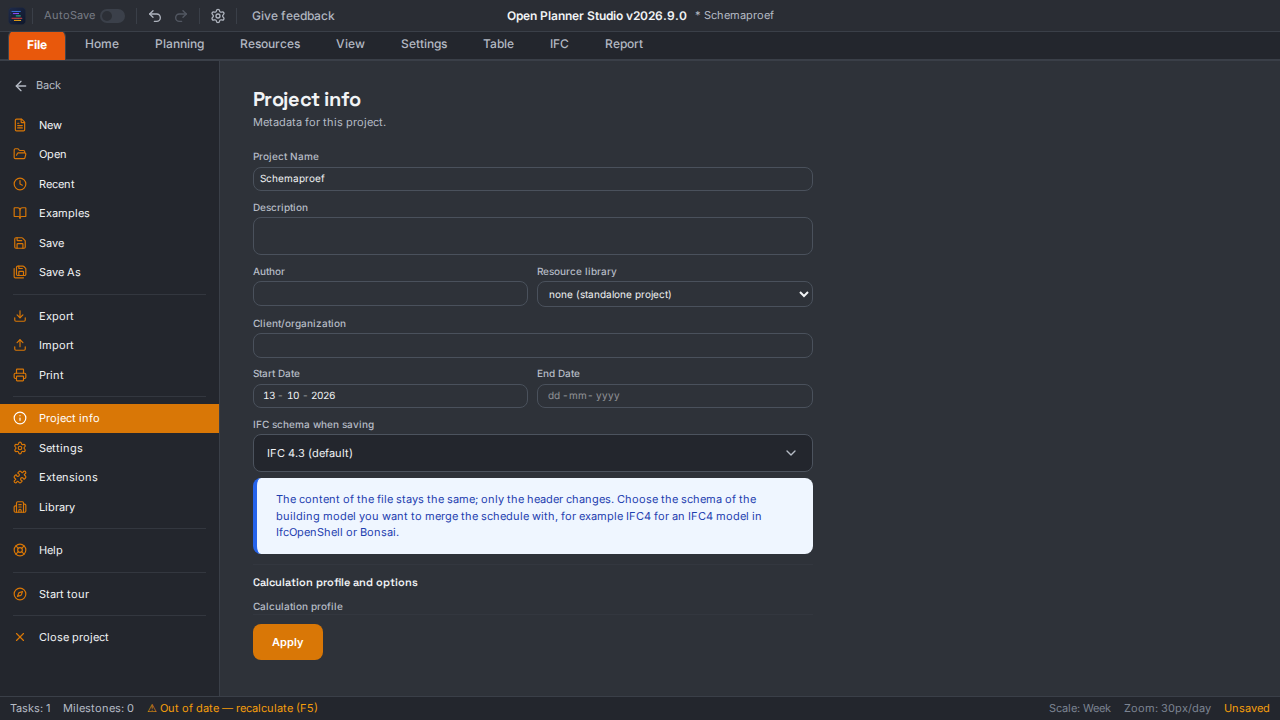
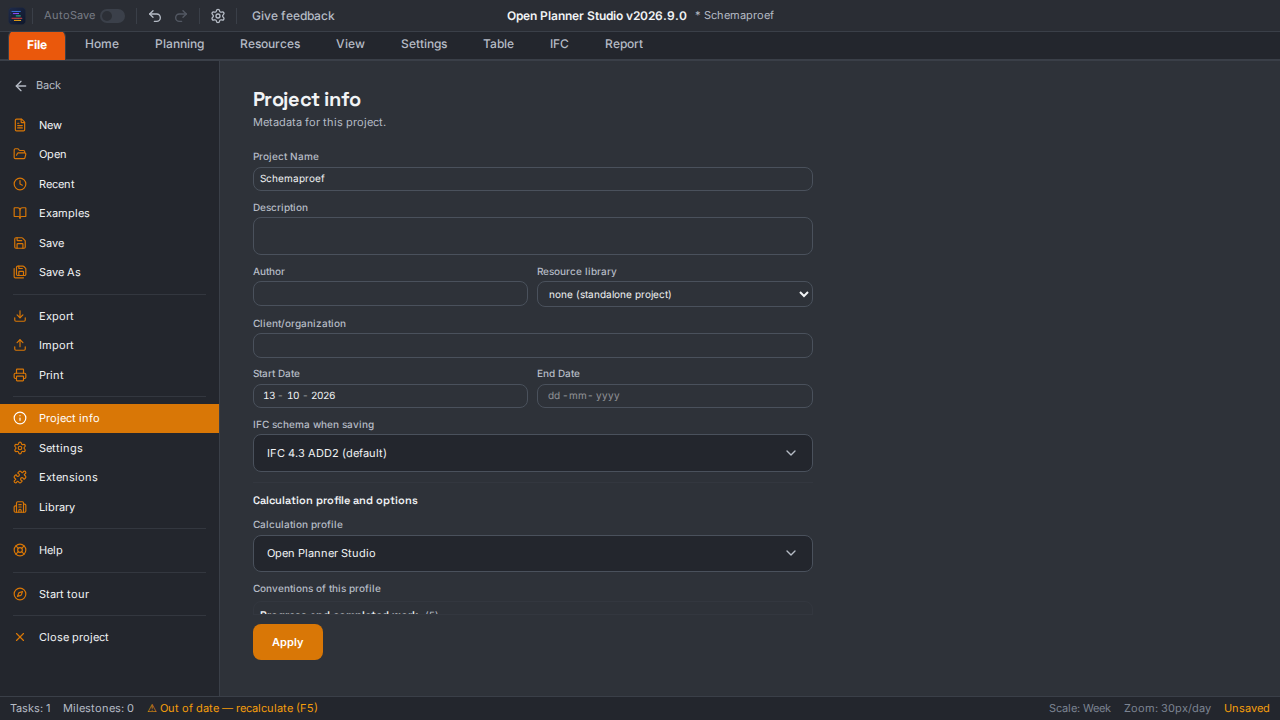
Schemavraag: browsertest, focus op houden, gidsen en schermbeelden (#292)
- tests/browser/ifc-schema-question.spec.ts (nieuw): echte bestandskiezer,
  Ctrl+S met download, klikken en Esc. (a) nieuw project zonder vraag, kop
  IFC4X3_ADD2; (b) IFC4-bestand, "IFC4 houden", kop IFC4, heropenen en weer
  opslaan zonder vraag; (c) zelfde met ADD2; (d) Esc slaat niets op; (e) de
  herstelsnapshot in IndexedDB vraagt niets en bewaart de open vraag.
  Mutatie (vraag uit Opslaan gehaald) maakt de test rood.
- ifc-schema.spec.ts: standaard en labels volgens het besluit (ADD2 bovenaan).
- De vraag zet bij openen de focus op de hoofdknop (houden), zodat Enter
  nooit stil het bestandstype verandert; de test controleert dat.
- Schermbeelden licht en donker via ui.uiTheme (ook het canvas), en de
  Projectinfo-beelden opnieuw met de nieuwe labels.
- Gids howto-ifc-schema-kiezen en ref-projectinfo (nl, en): standaard ADD2,
  de vraag bij een ouder of ander schema, AutoSave en herstel.

Changed region(s): [[0.1875, 0.6111, 0.6562, 0.8556]]

diff --git a/tests/browser/ifc-schema-question.spec.ts b/tests/browser/ifc-schema-question.spec.ts
@@ -1,0 +1,164 @@
+// Issue #292, besluit eigenaar 2026-10-13: de app slaat standaard op als IFC4X3_ADD2, maar verandert een
+// bestandstype nooit stil. Het eerste expliciete opslaan van een geopend IFC-bestand met een ander
+// schema vraagt eerst: naar IFC 4.3 ADD2, of het schema houden.
+//
+// Echte gebruikersflow: bestanden via de ribbonknop Openen en de bestandskiezer, opslaan met Ctrl+S (in
+// de browser zonder bestandstoegang een download), de vraag met echte klikken en Esc, een wijziging via
+// Projectinfo met echte invoer. `window.__OPS__` zet alleen de beginstand (één taak in een nieuw project)
+// en LEEST de uitkomst; de kop van elk bestand komt uit de echte download.
+//
+// OPS_IFC_SCHEMA_SHOTS=<map> bewaart schermbeelden van de vraag, licht en donker.
+import { readFileSync } from 'node:fs';
+import { readFile } from 'node:fs/promises';
+import { join } from 'node:path';
+import type { Page } from '@playwright/test';
+import { expect, test } from './fixtures/ops';
+
+const SHOTS = process.env.OPS_IFC_SCHEMA_SHOTS;
+// Een bestand van een oudere app-versie (kop IFC4X3, geen schemamarkering). Met de kop op IFC4 gezet is
+// het een IFC4-bestand van een ander pakket: ook geen markering, dus de app moet vragen.
+const OLD_OPS_FILE = readFileSync(join(process.cwd(), 'tests/planning/fixtures/ifc-arity-oude-writer.ifc'), 'utf8');
+const IFC4_FILE = Buffer.from(OLD_OPS_FILE.replace("FILE_SCHEMA(('IFC4X3'));", "FILE_SCHEMA(('IFC4'));"));
+
+const question = (page: Page) => page.locator('[data-ops-ifc-schema-question]');
+const state = (page: Page) => page.evaluate(() => {
+  const s = window.__OPS__!.store.getState();
+  return {
+    filePath: s.filePath,
+    ifcSchema: s.project.ifcSchema ?? null,
+    unconfirmed: s.project.ifcSchemaUnconfirmed ?? null,
+    pending: s.ui.pendingIfcSchemaQuestion,
+    isDirty: s.isDirty,
+    name: s.project.name,
+  };
+});
+
+/** Open via de ribbonknop en de bestandskiezer; wacht tot dit bestand het actieve document is. */
+async function openFile(page: Page, name: string, buffer: Buffer): Promise<void> {
+  const openButton = page.locator('button.ribbon-btn').filter({ hasText: /^(Open|Openen)$/ });
+  const chooser = page.waitForEvent('filechooser');
+  await openButton.click();
+  await (await chooser).setFiles({ name, mimeType: 'application/octet-stream', buffer });
+  await expect.poll(() => state(page).then(s => s.filePath)).toBe(name);
+}
+
+/** Ctrl+S die een download moet geven; geeft de inhoud terug. Een eventuele vraag beantwoordt `answer`. */
+async function saveWithDownload(page: Page, answer?: (page: Page) => Promise<void>): Promise<string> {
+  const download = page.waitForEvent('download');
+  await page.keyboard.press('Control+s');
+  if (answer) await answer(page);
+  const path = await (await download).path();
+  return readFile(path!, 'utf8');
+}
+
+const fileSchema = (ifc: string) => /FILE_SCHEMA\(\('([A-Z0-9_]+)'\)\);/.exec(ifc)?.[1] ?? '(geen kop)';
+const hasProp = (ifc: string, name: string) => ifc.includes(`IFCPROPERTYSINGLEVALUE('${name}'`);
+
+test('IFC-schema: nieuw project zonder vraag; IFC4 houden, ADD2 kiezen, Esc slaat niets op; heropenen vraagt niet opnieuw',
+  async ({ page, ops: _ops }) => {
+    test.setTimeout(120_000);
+    // Elke download telt: na Esc mag er niets komen.
+    let downloads = 0;
+    page.on('download', () => { downloads++; });
+
+    // (a) Nieuw project: Ctrl+S zonder vraag, kop IFC4X3_ADD2.
+    await page.evaluate(() => {
+      const s = window.__OPS__!.store.getState();
+      s.setProject({ name: 'Nieuw schemaproject' });
+      s.addTask({ name: 'Ruwbouw' });
+    });
+    const a = await saveWithDownload(page);
+    await expect(question(page)).toHaveCount(0);
+    expect(fileSchema(a)).toBe('IFC4X3_ADD2');
+    expect(hasProp(a, 'IfcSchemaConfirmed')).toBe(true);
+
+    // (b) Een IFC4-bestand: Ctrl+S ⇒ de vraag ⇒ "IFC4 houden" ⇒ kop IFC4.
+    await openFile(page, 'model-ifc4.ifc', IFC4_FILE);
+    expect((await state(page)).unconfirmed).toBe('IFC4');
+    const b = await saveWithDownload(page, async (p) => {
+      await expect(question(p)).toBeVisible();
+      await expect(question(p)).toHaveAttribute('data-file-schema', 'IFC4');
+      // De focus staat op "IFC4 houden": Enter verandert het bestandstype nooit.
+      await expect.poll(() => p.evaluate(() => document.activeElement?.getAttribute('data-ops-ifc-schema-choice') ?? null)).toBe('IFC4');
+      if (SHOTS) {
+        const before = await p.evaluate(() => window.__OPS__!.store.getState().ui.uiTheme);
+        for (const theme of ['light', 'dark'] as const) {
+          await p.evaluate((t) => window.__OPS__!.store.getState().setUI({ uiTheme: t }), theme);
+          // Kleurovergangen van knoppen eerst laten uitlopen.
+          await p.waitForTimeout(400);
+          await p.screenshot({ path: `${SHOTS}/schemavraag-ifc4-${theme === 'light' ? 'licht' : 'donker'}.png` });
+        }
+        await p.evaluate((t) => window.__OPS__!.store.getState().setUI({ uiTheme: t }), before);
+      }
+      await question(p).getByRole('button', { name: /^(Keep IFC4|IFC4 houden)$/ }).click();
+    });
+    await expect(question(page)).toHaveCount(0);
+    expect(fileSchema(b)).toBe('IFC4');
+    expect(hasProp(b, 'IfcSchemaConfirmed')).toBe(true);
+    expect(await state(page)).toMatchObject({ ifcSchema: 'IFC4', unconfirmed: null, isDirty: false });
+
+    // Heropenen van dat bewaarde bestand en weer opslaan: geen vraag, kop IFC4.
+    await openFile(page, 'bewaard-ifc4.ifc', Buffer.from(b));
+    expect((await state(page)).unconfirmed).toBeNull();
+    const b2 = await saveWithDownload(page);
+    await expect(question(page)).toHaveCount(0);
+    expect(fileSchema(b2)).toBe('IFC4');
+
+    // (c) Hetzelfde IFC4-bestand, nu met de keuze ADD2 ⇒ kop IFC4X3_ADD2.
+    await openFile(page, 'model-ifc4-c.ifc', IFC4_FILE);
+    const c = await saveWithDownload(page, async (p) => {
+      await expect(question(p)).toBeVisible();
+      await question(p).getByRole('button', { name: /^(Save as IFC 4\.3 ADD2|Opslaan als IFC 4\.3 ADD2)$/ }).click();
+    });
+    expect(fileSchema(c)).toBe('IFC4X3_ADD2');
+    expect(await state(page)).toMatchObject({ ifcSchema: 'IFC4X3_ADD2', unconfirmed: null });
+
+    // (d) Esc ⇒ niets opgeslagen; de vraag staat bij het volgende opslaan weer klaar.
+    await openFile(page, 'model-ifc4-d.ifc', IFC4_FILE);
+    const before = downloads;
+    await page.keyboard.press('Control+s');
+    await expect(question(page)).toBeVisible();
+    await page.keyboard.press('Escape');
+    await expect(question(page)).toHaveCount(0);
+    // Een download na Esc zou binnen een paar honderd ms komen; wacht ruim en tel.
+    await page.waitForTimeout(1_500);
+    expect(downloads).toBe(before);
+    expect(await state(page)).toMatchObject({ unconfirmed: 'IFC4', pending: null });
+
+    // (e) Automatisch opslaan (crashherstel) vraagt niets en bewaart de open vraag. Een echte wijziging
+    // via Projectinfo (naam), dan wachten op de herstelsnapshot in IndexedDB.
+    await page.getByRole('button', { name: /^(File|Bestand)$/ }).first().click();
+    await page.locator('.backstage-sidebar').getByRole('button', { name: /^(Project info|Projectinfo)$/ }).click();
+    await page.locator('[data-ops-project-name]').fill('Herstelproef schemavraag');
+    await page.locator('[data-ops-project-info-actions]').getByRole('button', { name: /^(Apply|Toepassen)$/ }).click();
+    await expect.poll(() => state(page).then(s => [s.name, s.isDirty])).toEqual(['Herstelproef schemavraag', true]);
+    let snapshot: string | null = null;
+    await expect.poll(async () => {
+      snapshot = await readRecoverySnapshot(page, 'Herstelproef schemavraag');
+      return snapshot !== null;
+    }, { timeout: 40_000, intervals: [1_000] }).toBe(true);
+    await expect(question(page)).toHaveCount(0);
+    expect(await state(page)).toMatchObject({ unconfirmed: 'IFC4', pending: null });
+    expect(fileSchema(snapshot!)).toBe('IFC4');
+    expect(hasProp(snapshot!, 'IfcSchemaUnconfirmed')).toBe(true);
+    expect(downloads).toBe(before);
+  });
+
+/** De IFC-tekst van de herstelsnapshot met deze projectnaam uit de echte IndexedDB `ops-recovery`, of null. */
+function readRecoverySnapshot(page: Page, needle: string): Promise<string | null> {
+  return page.evaluate((name) => new Promise<string | null>((resolve) => {
+    const request = indexedDB.open('ops-recovery');
+    request.onerror = () => resolve(null);
+    request.onsuccess = () => {
+      const db = request.result;
+      if (![...db.objectStoreNames].includes('records')) { db.close(); resolve(null); return; }
+      const all = db.transaction('records', 'readonly').objectStore('records').getAll();
+      all.onsuccess = () => {
+        db.close();
+        const records = all.result as Array<{ kind: string; ifc?: string }>;
+        resolve(records.find(r => r.kind === 'doc' && typeof r.ifc === 'string' && r.ifc.includes(name))?.ifc ?? null);
+      };
+      all.onerror = () => { db.close(); resolve(null); };
+    };
+  }), needle);
+}

diff --git a/tests/browser/ifc-schema.spec.ts b/tests/browser/ifc-schema.spec.ts
@@ -55,16 +55,18 @@ test('IFC-schema: kiezen in Projectinfo, toepassen, opslaan schrijft het in de k
     expect(await schemaOf(page)).toBeNull();
 
     await toProjectInfo(page);
-    await expect(trigger(page)).toHaveText(/^(IFC 4\.3 \(default\)|IFC 4\.3 \(standaard\))$/);
+    // De standaard is IFC 4.3 ADD2 (besluit eigenaar 2026-10-13).
+    await expect(trigger(page)).toHaveText(/^(IFC 4\.3 ADD2 \(default\)|IFC 4\.3 ADD2 \(standaard\))$/);
     if (SHOTS) {
-      // Alleen voor de schermbeelden: het thema rechtstreeks op de DOM (de Backstage is pure DOM/CSS).
-      const before = await page.evaluate(() => document.documentElement.getAttribute('data-theme'));
+      // Alleen voor de schermbeelden: het thema via de store (`ui.uiTheme`), zoals de instelling het zet.
+      const before = await page.evaluate(() => window.__OPS__!.store.getState().ui.uiTheme);
       await page.locator('[data-ops-project-ifc-schema]').scrollIntoViewIfNeeded();
       for (const theme of ['light', 'dark'] as const) {
-        await page.evaluate((t) => document.documentElement.setAttribute('data-theme', t), theme);
+        await page.evaluate((t) => window.__OPS__!.store.getState().setUI({ uiTheme: t }), theme);
+        await page.waitForTimeout(400);
         await page.screenshot({ path: `${SHOTS}/projectinfo-ifc-schema-${theme === 'light' ? 'licht' : 'donker'}.png` });
       }
-      await page.evaluate((t) => { if (t) document.documentElement.setAttribute('data-theme', t); }, before);
+      await page.evaluate((t) => window.__OPS__!.store.getState().setUI({ uiTheme: t }), before);
     }
 
     // Kiezen is een concept: de store verandert pas bij Toepassen.
@@ -84,18 +86,20 @@ test('IFC-schema: kiezen in Projectinfo, toepassen, opslaan schrijft het in de k
     await page.keyboard.press('Control+y');
     await expect.poll(() => schemaOf(page)).toBe('IFC4');
 
-    // Het formulier toont de opgeslagen keuze; IFC 4.3 ADD2 kiezen en opslaan.
+    // Het formulier toont de opgeslagen keuze; IFC 4.3 kiezen en opslaan.
     await toProjectInfo(page);
     await expect(trigger(page)).toHaveText(/^IFC4$/);
-    await pick(page, /^IFC 4\.3 ADD2$/);
-    await apply(page);
-    await expect.poll(() => schemaOf(page)).toBe('IFC4X3_ADD2');
-    expect(await saveAndReadSchemaLine(page)).toBe("FILE_SCHEMA(('IFC4X3_ADD2'));");
-
-    // Terug naar de standaard.
-    await toProjectInfo(page);
-    await pick(page, /^(IFC 4\.3 \(default\)|IFC 4\.3 \(standaard\))$/);
+    await pick(page, /^IFC 4\.3$/);
     await apply(page);
     await expect.poll(() => schemaOf(page)).toBe('IFC4X3');
     expect(await saveAndReadSchemaLine(page)).toBe("FILE_SCHEMA(('IFC4X3'));");
+
+    // Terug naar de standaard.
+    await toProjectInfo(page);
+    await pick(page, /^(IFC 4\.3 ADD2 \(default\)|IFC 4\.3 ADD2 \(standaard\))$/);
+    await apply(page);
+    await expect.poll(() => schemaOf(page)).toBe('IFC4X3_ADD2');
+    expect(await saveAndReadSchemaLine(page)).toBe("FILE_SCHEMA(('IFC4X3_ADD2'));");
+    // Een nieuw project kreeg nooit een schemavraag.
+    await expect(page.locator('[data-ops-ifc-schema-question]')).toHaveCount(0);
   });

diff --git a/src/components/dialogs/IfcSchemaQuestionDialog.tsx b/src/components/dialogs/IfcSchemaQuestionDialog.tsx
@@ -1,4 +1,4 @@
-import type { KeyboardEvent } from 'react';
+import { useEffect, useRef, type KeyboardEvent } from 'react';
 import { useTranslation } from 'react-i18next';
 import { useAppStore } from '@/state/appStore';
 import { Dialog, DialogHeader } from '@/components/common/Dialog';
@@ -18,7 +18,9 @@ import type { IfcSchemaId } from '@/types/project';
  *    Projectinfo zijn de keuzes, de standaard eerst.
  *
  * Esc en het kruisje annuleren: dan wordt er niets opgeslagen. Geen backdrop-klik (een keuze die over
- * het bestandstype gaat, sluit je niet per ongeluk). Enter activeert de knop met focus.
+ * het bestandstype gaat, sluit je niet per ongeluk). Enter activeert de knop met focus; bij het openen
+ * staat de focus op de hoofdknop (houden, of bij een niet-schrijfbaar schema de standaard), zodat Enter
+ * nooit stil het bestandstype verandert.
  */
 export function IfcSchemaQuestionDialog() {
   const pending = useAppStore((s) => s.ui.pendingIfcSchemaQuestion);
@@ -32,6 +34,11 @@ function IfcSchemaQuestionDialogBody({ question }: { question: IfcSchemaQuestion
   const schema = ifcSchemaDisplayName(question.fileSchema);
   const cancel = () => answerIfcSchemaQuestion(null);
   const choose = (choice: IfcSchemaId) => answerIfcSchemaQuestion(choice);
+  const primaryRef = useRef<HTMLButtonElement>(null);
+
+  // De focus-trap van `Dialog` zet de focus eerst op het kruisje (een kind-effect loopt vóór dit
+  // effect); daarna hoort hij op de hoofdknop.
+  useEffect(() => { primaryRef.current?.focus(); }, []);
 
   // Ctrl/⌘+S en Ctrl/⌘+O in deze dialoog niet doorlaten naar de globale sneltoetsen: dan zou er na
   // het antwoord nóg een opslag- of openronde starten (zelfde regel als `SiteSaveDialog`).
@@ -77,6 +84,7 @@ function IfcSchemaQuestionDialogBody({ question }: { question: IfcSchemaQuestion
               {t('ifcSchemaQuestion.toDefault')}
             </button>
             <button
+              ref={primaryRef}
               className="btn btn--sm btn--primary shadow-[var(--shadow-glow)]"
               onClick={() => choose(question.keep!)}
               data-ops-ifc-schema-choice={question.keep}
@@ -87,6 +95,7 @@ function IfcSchemaQuestionDialogBody({ question }: { question: IfcSchemaQuestion
         ) : (
           <>
             <button
+              ref={primaryRef}
               className="btn btn--sm btn--primary shadow-[var(--shadow-glow)]"
               onClick={() => choose('IFC4X3_ADD2')}
               data-ops-ifc-schema-choice="IFC4X3_ADD2"

diff --git a/public/docs/nl/howto-ifc-schema-kiezen.md b/public/docs/nl/howto-ifc-schema-kiezen.md
@@ -4,7 +4,7 @@ Doel: je planning opslaan in het IFC-schema van het bouwmodel waarmee je haar wi
 
 ## Wanneer je dit nodig hebt
 
-De app slaat een project op als IFC 4.3. Wil je de planning samenvoegen met een bouwmodel tot één 4D-bestand, bijvoorbeeld met het recept *MergeProjects* van IfcOpenShell (ifcpatch), dan moeten beide bestanden hetzelfde schema hebben. Is het bouwmodel een IFC4-bestand, dan weigert IfcOpenShell het samenvoegen met een IFC 4.3-planning. Kies dan hier het schema van het model.
+De app slaat een project standaard op als IFC 4.3 ADD2. Zo heet IFC 4.3 in de bestanden die IfcOpenShell en Bonsai maken. Wil je de planning samenvoegen met een bouwmodel tot één 4D-bestand, bijvoorbeeld met het recept *MergeProjects* van IfcOpenShell (ifcpatch), dan moeten beide bestanden hetzelfde schema hebben. Is het bouwmodel een IFC4-bestand, dan weigert IfcOpenShell het samenvoegen met een IFC 4.3-planning. Kies dan hier het schema van het model.
 
 ## Stappen
 
@@ -15,23 +15,27 @@ De app slaat een project op als IFC 4.3. Wil je de planning samenvoegen met een 
 
 De drie keuzes:
 
-- *IFC 4.3 (standaard)* schrijft `IFC4X3` in de kop van het bestand.
-- *IFC 4.3 ADD2* schrijft `IFC4X3_ADD2`. Zo heet IFC 4.3 in de bestanden die IfcOpenShell maakt.
+- *IFC 4.3 ADD2 (standaard)* schrijft `IFC4X3_ADD2` in de kop van het bestand.
+- *IFC 4.3* schrijft `IFC4X3`. Zo schreven oudere versies van de app IFC 4.3.
 - *IFC4* schrijft `IFC4`, voor een bouwmodel in IFC4.
 
 ## Valkuilen en wat de app dan doet
 
+**De app vraagt eerst als een geopend bestand een ander schema heeft.** Open je bijvoorbeeld een IFC4-bestand, of een IFC 4.3-bestand van een oudere versie van de app, dan verandert de app het bestandstype niet zomaar. Bij de eerste keer *Opslaan* of *Opslaan als* vraagt ze eerst of je het schema van het bestand houdt of naar IFC 4.3 ADD2 gaat. *IFC4 houden* (of *IFC 4.3 houden*) is de knop die Enter kiest. Sluit je de vraag met Esc of het kruisje, dan slaat de app niets op.
+
+**De app vraagt het maar één keer per bestand.** Je keuze staat in het bestand zelf. Open je het later weer, dan vraagt de app het niet opnieuw. Kies je zelf een schema in *Projectinfo* en klik je op *Toepassen*, dan vraagt de app ook niets meer.
+
+**Een schema dat de app niet kan schrijven**, zoals IFC2X3, opent de app wel. Bij de eerste keer opslaan zegt de vraag dat, en kies je een van de drie schema's hierboven.
+
+**Automatisch opslaan en crashherstel vragen niets.** Ze schrijven het schema van het bestand en bewaren de vraag voor de eerste keer dat je zelf opslaat. Bij een schema dat de app niet kan schrijven, schrijft *AutoSave* niet naar het bestand tot je de vraag hebt beantwoord.
+
+**Een nieuw project vraagt niets.** Een nieuw project, en een project uit een ander formaat zoals XER, MPP of CSV, begint op *IFC 4.3 ADD2 (standaard)*.
+
 **De inhoud van het bestand verandert niet.** De drie schema's kennen de planningsgegevens die de app schrijft op dezelfde manier. Alleen de regel `FILE_SCHEMA` in de kop verschilt. Je verliest dus niets als je een ander schema kiest.
 
-**Een IFC 4.3-model uit IfcOpenShell of Bonsai** heeft meestal `IFC4X3_ADD2` in de kop. IfcOpenShell voegt een planning met `IFC4X3` daar niet mee samen. Kies dan *IFC 4.3 ADD2*. Kijk bij twijfel in de regel `FILE_SCHEMA` bovenaan het bestand van het model.
+**Een IFC 4.3-model uit IfcOpenShell of Bonsai** heeft meestal `IFC4X3_ADD2` in de kop, net als de standaard van de app. IfcOpenShell voegt een planning met `IFC4X3` daar niet mee samen. Kijk bij twijfel in de regel `FILE_SCHEMA` bovenaan het bestand van het model.
 
-**De keuze hoort bij het project.** Ze staat in het bestand zelf. Open je een IFC4-bestand, dan slaat de app het weer op als IFC4. Een nieuw project begint op *IFC 4.3 (standaard)*.
-
-**Een bestand in een ander schema**, zoals IFC2X3, opent de app wel. Bij opslaan schrijft ze het als IFC 4.3.
-
-**Ongedaan maken zet de keuze terug**, net als elke andere wijziging in *Projectinfo*.
-
-**Automatisch opslaan en crashherstel gebruiken hetzelfde schema** als *Opslaan*.
+**Ongedaan maken zet een keuze in Projectinfo terug**, net als elke andere wijziging in *Projectinfo*. Het antwoord op de vraag bij opslaan is geen eigen stap. Maak je wijzigingen van vóór die vraag ongedaan, dan vraagt de app bij het volgende opslaan opnieuw.
 
 ## Zie ook
 

diff --git a/public/docs/en/howto-ifc-schema-kiezen.md b/public/docs/en/howto-ifc-schema-kiezen.md
@@ -4,7 +4,7 @@ Goal: save your schedule in the IFC schema of the building model you want to mer
 
 ## When you need this
 
-The app saves a project as IFC 4.3. If you want to merge the schedule with a building model into one 4D file, for example with the *MergeProjects* recipe of IfcOpenShell (ifcpatch), both files must have the same schema. If the building model is an IFC4 file, IfcOpenShell refuses to merge it with an IFC 4.3 schedule. Then choose the schema of the model here.
+By default, the app saves a project as IFC 4.3 ADD2. That is the name of IFC 4.3 in the files that IfcOpenShell and Bonsai create. If you want to merge the schedule with a building model into one 4D file, for example with the *MergeProjects* recipe of IfcOpenShell (ifcpatch), both files must have the same schema. If the building model is an IFC4 file, IfcOpenShell refuses to merge it with an IFC 4.3 schedule. Then choose the schema of the model here.
 
 ## Steps
 
@@ -15,23 +15,27 @@ The app saves a project as IFC 4.3. If you want to merge the schedule with a bui
 
 The three choices:
 
-- *IFC 4.3 (default)* writes `IFC4X3` in the header of the file.
-- *IFC 4.3 ADD2* writes `IFC4X3_ADD2`. That is the name of IFC 4.3 in the files that IfcOpenShell creates.
+- *IFC 4.3 ADD2 (default)* writes `IFC4X3_ADD2` in the header of the file.
+- *IFC 4.3* writes `IFC4X3`. That is how older versions of the app wrote IFC 4.3.
 - *IFC4* writes `IFC4`, for a building model in IFC4.
 
 ## Pitfalls and what the app does
 
+**The app asks first when an opened file has another schema.** If you open, for example, an IFC4 file, or an IFC 4.3 file from an older version of the app, the app does not simply change the file type. The first time you use *Save* or *Save as*, it first asks whether you keep the schema of the file or go to IFC 4.3 ADD2. *Keep IFC4* (or *Keep IFC 4.3*) is the button that Enter chooses. If you close the question with Esc or the cross, the app saves nothing.
+
+**The app asks only once per file.** Your choice is stored in the file itself. If you open it again later, the app does not ask again. If you choose a schema yourself in *Project info* and click *Apply*, the app does not ask either.
+
+**A schema that the app cannot write**, such as IFC2X3, opens in the app. The first time you save, the question says so, and you choose one of the three schemas above.
+
+**Auto-save and crash recovery ask nothing.** They write the schema of the file and keep the question for the first time you save yourself. For a schema that the app cannot write, *AutoSave* does not write to the file until you have answered the question.
+
+**A new project asks nothing.** A new project, and a project from another format such as XER, MPP or CSV, starts at *IFC 4.3 ADD2 (default)*.
+
 **The content of the file does not change.** The three schemas know the scheduling data that the app writes in the same way. Only the `FILE_SCHEMA` line in the header differs. So you lose nothing when you choose another schema.
 
-**An IFC 4.3 model from IfcOpenShell or Bonsai** usually has `IFC4X3_ADD2` in the header. IfcOpenShell does not merge a schedule with `IFC4X3` into it. Then choose *IFC 4.3 ADD2*. If in doubt, look at the `FILE_SCHEMA` line at the top of the model file.
+**An IFC 4.3 model from IfcOpenShell or Bonsai** usually has `IFC4X3_ADD2` in the header, like the default of the app. IfcOpenShell does not merge a schedule with `IFC4X3` into it. If in doubt, look at the `FILE_SCHEMA` line at the top of the model file.
 
-**The choice belongs to the project.** It is stored in the file itself. If you open an IFC4 file, the app saves it as IFC4 again. A new project starts at *IFC 4.3 (default)*.
-
-**A file in another schema**, such as IFC2X3, opens in the app. When you save, the app writes it as IFC 4.3.
-
-**Undo reverts the choice**, like any other change in *Project info*.
-
-**Auto-save and crash recovery use the same schema** as *Save*.
+**Undo reverts a choice in Project info**, like any other change in *Project info*. The answer to the question when saving is not a step of its own. If you undo changes from before that question, the app asks again the next time you save.
 
 ## See also
 

diff --git a/public/docs/nl/ref-projectinfo.md b/public/docs/nl/ref-projectinfo.md
@@ -40,7 +40,7 @@ De velden van het venster *Nieuw project* en van *Projectinfo*: wat elk veld doe
 
 ## Alleen in Projectinfo
 
-**IFC-schema bij opslaan** — welk IFC-schema in de kop van het opgeslagen bestand staat. Keuze uit *IFC 4.3 (standaard)*, *IFC 4.3 ADD2* en *IFC4*. Standaard: *IFC 4.3 (standaard)*; bij een geopend IFC-bestand het schema van dat bestand. Effect: alleen de kop van het bestand verandert, niet de inhoud. Gebruik het om de planning samen te voegen met een bouwmodel in hetzelfde schema. Zie [Het IFC-schema kiezen](docs://howto-ifc-schema-kiezen).
+**IFC-schema bij opslaan** — welk IFC-schema in de kop van het opgeslagen bestand staat. Keuze uit *IFC 4.3 ADD2 (standaard)*, *IFC 4.3* en *IFC4*. Standaard: *IFC 4.3 ADD2 (standaard)*; bij een geopend IFC-bestand het schema van dat bestand. Effect: alleen de kop van het bestand verandert, niet de inhoud. Gebruik het om de planning samen te voegen met een bouwmodel in hetzelfde schema. Heeft een geopend bestand een ander schema dan de standaard, dan vraagt de app bij de eerste keer opslaan of je dat schema houdt; een keuze hier telt als antwoord. Zie [Het IFC-schema kiezen](docs://howto-ifc-schema-kiezen).
 
 ## Alleen in het venster Nieuw project
 

diff --git a/public/docs/en/ref-projectinfo.md b/public/docs/en/ref-projectinfo.md
@@ -40,7 +40,7 @@ The fields of the *New project* window and of *Project info*: what each field do
 
 ## Only in Project info
 
-**IFC schema when saving** — which IFC schema is in the header of the saved file. Choice of *IFC 4.3 (default)*, *IFC 4.3 ADD2* and *IFC4*. Default: *IFC 4.3 (default)*; for an opened IFC file, the schema of that file. Effect: only the header of the file changes, not the content. Use it to merge the schedule with a building model in the same schema. See [Choosing the IFC schema](docs://howto-ifc-schema-kiezen).
+**IFC schema when saving** — which IFC schema is in the header of the saved file. Choice of *IFC 4.3 ADD2 (default)*, *IFC 4.3* and *IFC4*. Default: *IFC 4.3 ADD2 (default)*; for an opened IFC file, the schema of that file. Effect: only the header of the file changes, not the content. Use it to merge the schedule with a building model in the same schema. If an opened file has another schema than the default, the app asks the first time you save whether you keep that schema; a choice here counts as the answer. See [Choosing the IFC schema](docs://howto-ifc-schema-kiezen).
 
 ## Only in the New project window
 
